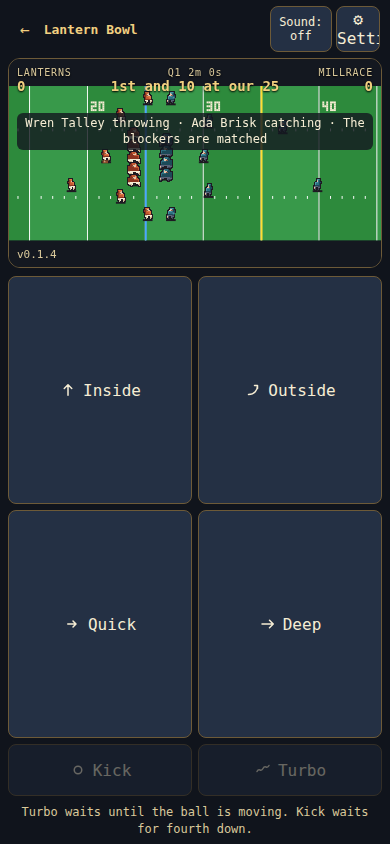
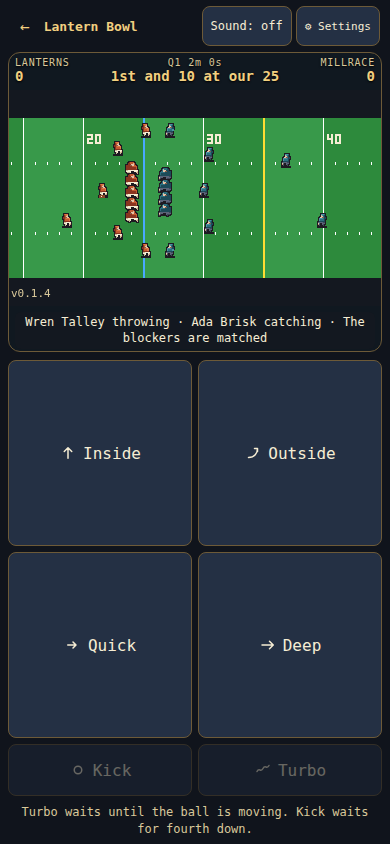
Lantern Bowl: an upright phone draws the field on whole pixels.
The play line sits under the field, and Settings stays fully on the screen.

diff --git a/games/lantern-bowl/style.css b/games/lantern-bowl/style.css
@@ -24,7 +24,8 @@ header .home .narrow { display: none; }
 #settingsMount { margin-left: auto; display: flex; flex: 0 0 auto; gap: 6px; }
 #settingsMount button { font-size: calc(12px * var(--arc-text)); }
 .screen { position: relative; min-height: 0; overflow: hidden; border: 1px solid #6d5a38; border-radius: 12px; background: #101820; }
-.screen, canvas, .curtain, .panel, .banner, .sheet, .dock, .hud, .field-cue {
+.pitch { position: absolute; inset: 0; }
+.screen, canvas, .curtain, .panel, .banner, .sheet, .dock, .hud, .field-cue, .pitch {
   -webkit-user-select: none; user-select: none;
 }
 canvas { display: block; width: 100%; height: 100%; touch-action: none; }
@@ -100,8 +101,7 @@ footer { padding: 6px 0 0; }
   header .home .wide { display: none; }
   header .home .narrow { display: inline; }
   #settingsMount { gap: 4px; }
-  #sound { max-width: 5.2em; overflow: hidden; text-overflow: clip; font-size: 11px; padding-inline: 6px; }
-  #settingsMount .arc-set-btn { width: 44px; padding: 0; overflow: hidden; font-size: 16px; }
+  #sound, #settingsMount .arc-set-btn { font-size: 11px; padding-inline: 8px; white-space: nowrap; overflow: visible; width: auto; }
 }
 @media (min-width: 411px) and (max-width: 520px) {
   header { gap: 4px; flex-wrap: nowrap; }
@@ -116,14 +116,40 @@ footer { padding: 6px 0 0; }
   .panel { padding: 10px; }
   .panel h2 { font-size: calc(20px * var(--arc-text)); }
 }
-/* Upright phone: the field takes the width, and the play calls use the height under it. */
+/* Upright phone: the field stays a whole number of pixels, and the spare height holds the score, the play line and the calls. */
 @media (max-aspect-ratio: 3/4) {
-  .cabinet { grid-template-rows: auto auto minmax(0, 1fr); }
-  .screen { width: 100%; height: auto; aspect-ratio: 384 / 216; }
+  .cabinet {
+    grid-template-rows: auto auto minmax(0, 1fr);
+    padding-top: env(safe-area-inset-top);
+    padding-right: max(8px, env(safe-area-inset-right));
+    padding-bottom: max(6px, env(safe-area-inset-bottom));
+    padding-left: max(8px, env(safe-area-inset-left));
+  }
+  .screen {
+    width: 100%; height: auto; aspect-ratio: auto;
+    display: flex; flex-direction: column; align-items: center;
+  }
+  .hud {
+    position: static; order: 0; width: 100%; left: auto; right: auto; top: auto;
+    flex: 0 0 auto; padding: 4px 6px 6px; box-sizing: border-box;
+  }
+  .pitch {
+    position: relative; inset: auto; order: 1;
+    width: max-content; height: max-content; flex: 0 0 auto;
+  }
+  .pitch canvas {
+    width: 384px; height: 216px;
+    image-rendering: pixelated;
+    image-rendering: crisp-edges;
+  }
+  .sheet {
+    position: static; order: 2; left: auto; right: auto; top: auto;
+    width: calc(100% - 12px); margin: 6px 6px 2px; flex: 0 0 auto;
+  }
   .curtain { position: fixed; inset: 0; z-index: 6; }
   footer { min-height: 0; display: flex; flex-direction: column; gap: 4px; padding-top: 8px; }
   .dock { flex: 1 1 auto; min-height: 0; display: flex; flex-direction: column; }
-  .dock-plays { flex: 1 1 auto; min-height: 0; grid-template-rows: 1fr 1fr; }
+  .dock-plays { flex: 1 1 auto; min-height: 0; grid-template-rows: 1fr 1fr auto; }
   .dock-plays button { height: 100%; min-height: 52px; font-size: calc(16px * var(--arc-text)); }
   .hint { flex: 0 0 2.8em; height: 2.8em; min-height: 2.8em; overflow: hidden; }
 }

diff --git a/games/lantern-bowl/game.js b/games/lantern-bowl/game.js
@@ -581,8 +581,30 @@
     }
   }
 
+  function uprightPhone() {
+    return !!(window.matchMedia && window.matchMedia('(max-aspect-ratio: 3/4)').matches);
+  }
+
   function resize() {
     var r = canvas.getBoundingClientRect(), dpr = Math.min(2, window.devicePixelRatio || 1);
+    if (uprightPhone()) {
+      var slot = canvas.parentElement && canvas.parentElement.parentElement;
+      var avail = slot ? slot.getBoundingClientRect().width : r.width;
+      var cssScale = avail >= V.SIDE.w * 2 ? 2 : 1;
+      var cssW = V.SIDE.w * cssScale, cssH = V.SIDE.h * cssScale;
+      canvas.style.width = cssW + 'px';
+      canvas.style.height = cssH + 'px';
+      canvas.style.imageRendering = 'pixelated';
+      var k = Math.max(1, Math.round(window.devicePixelRatio || 1));
+      var bw = V.SIDE.w * cssScale * k, bh = V.SIDE.h * cssScale * k;
+      if (canvas.width !== bw || canvas.height !== bh) { canvas.width = bw; canvas.height = bh; }
+      return { w: cssW, h: cssH, dpr: k, scale: cssScale, upright: true };
+    }
+    if (canvas.style.width) {
+      canvas.style.width = '';
+      canvas.style.height = '';
+      canvas.style.imageRendering = '';
+    }
     var w = Math.max(1, Math.round(r.width * dpr)), h = Math.max(1, Math.round(r.height * dpr));
     if (canvas.width !== w || canvas.height !== h) { canvas.width = w; canvas.height = h; }
     return { w: r.width, h: r.height, dpr: dpr };
@@ -615,6 +637,21 @@
 
   function draw() {
     var box = resize();
+    var play = state && state.phase === 'live' ? state.play : null;
+    var paint = {
+      game: state,
+      play: play,
+      camX: sideCam ? sideCam.x : (state ? state.spot : 25),
+      aim: aimDrag,
+      reduced: reduce
+    };
+    if (box.upright) {
+      var mul = box.scale * box.dpr;
+      ctx.setTransform(mul, 0, 0, mul, 0, 0);
+      ctx.imageSmoothingEnabled = false;
+      V.paintMatch(ctx, paint);
+      return;
+    }
     var scale = Math.max(0.01, Math.min(box.w / V.SIDE.w, box.h / V.SIDE.h));
     var ox = (box.w - V.SIDE.w * scale) / 2;
     var oy = (box.h - V.SIDE.h * scale) / 2;
@@ -624,14 +661,7 @@
     ctx.fillRect(0, 0, box.w, box.h);
     ctx.setTransform(box.dpr * scale, 0, 0, box.dpr * scale, box.dpr * ox, box.dpr * oy);
     ctx.imageSmoothingEnabled = false;
-    var play = state && state.phase === 'live' ? state.play : null;
-    V.paintMatch(ctx, {
-      game: state,
-      play: play,
-      camX: sideCam ? sideCam.x : (state ? state.spot : 25),
-      aim: aimDrag,
-      reduced: reduce
-    });
+    V.paintMatch(ctx, paint);
   }
 
   function frame(now) {

diff --git a/games/lantern-bowl/index.html b/games/lantern-bowl/index.html
@@ -14,16 +14,18 @@
   <div id="settingsMount"><button id="sound" type="button" aria-label="Change sound setting">Sound off</button></div>
 </header>
 <section class="screen" aria-label="Lamplight Field">
-  <canvas id="field" tabindex="0" aria-label="The field, seen from the side."></canvas>
   <div class="hud">
     <span><small>LANTERNS</small><b id="homeScore">0</b></span>
     <span class="mid"><small id="clock">Q1 2m 0s</small><b id="down">1st and 10</b></span>
     <span class="right"><small>MILLRACE</small><b id="awayScore">0</b></span>
   </div>
+  <div class="pitch">
+    <canvas id="field" tabindex="0" aria-label="The field, seen from the side."></canvas>
+    <p id="cue" class="field-cue" hidden></p>
+    <p class="banner" id="banner" hidden></p>
+    <small id="build" class="build">v0.1.4</small>
+  </div>
   <p id="sheet" class="sheet" hidden></p>
-  <p id="cue" class="field-cue" hidden></p>
-  <p class="banner" id="banner" hidden></p>
-  <small id="build" class="build">v0.1.4</small>
   <div class="curtain" id="curtain"><section class="panel" id="panel" role="dialog" aria-labelledby="panelTitle"></section></div>
 </section>
 <footer>
